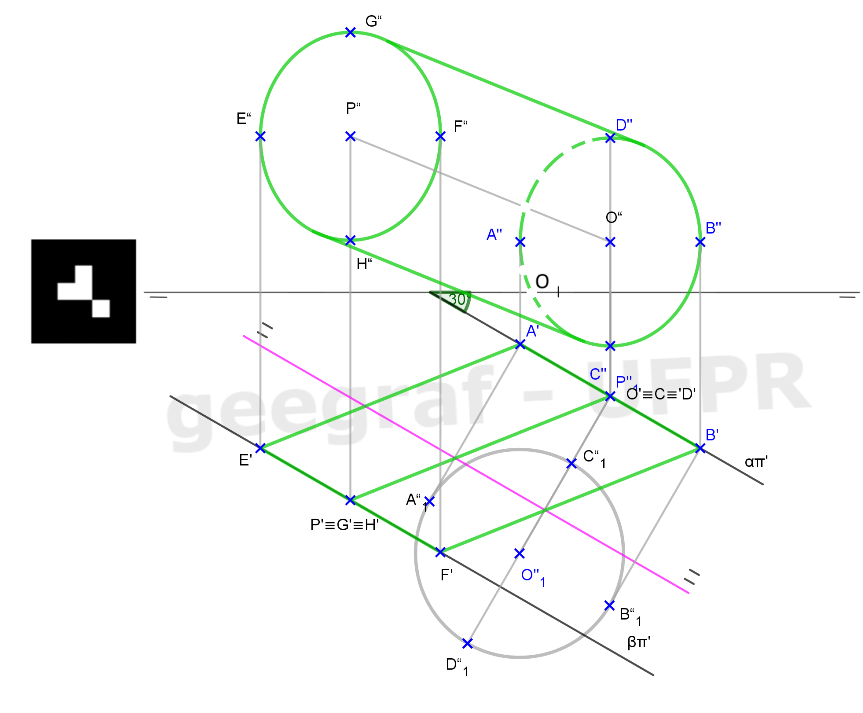
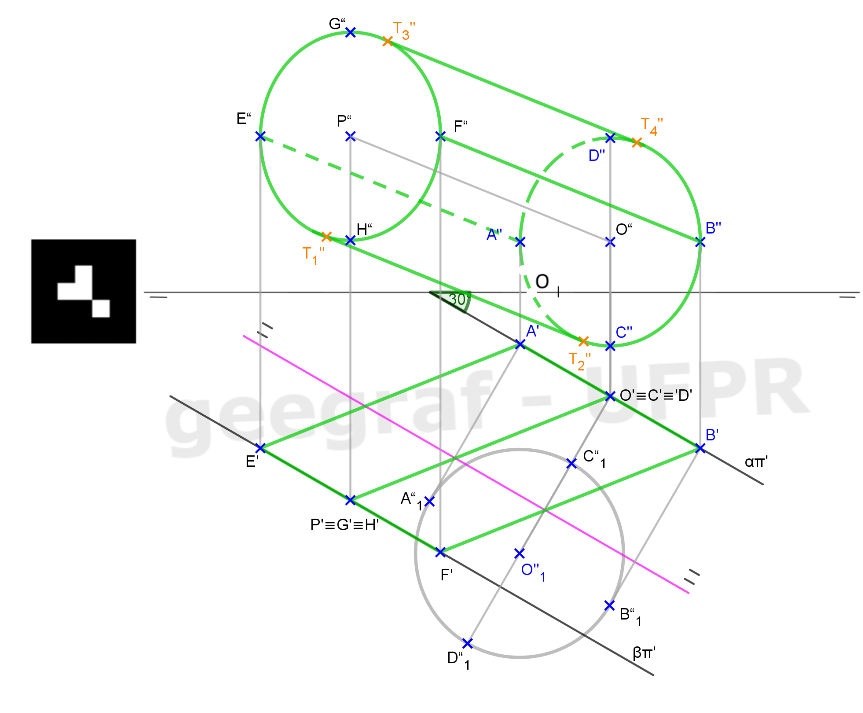
update

diff --git a/README.md b/README.md
@@ -6511,18 +6511,18 @@
 	<p class="topop"><a href="#planos3" class="topo">voltar ao topo</a></p>
 	<img src="planosTV/Apost_GD_2021_00087.png"/>
 	<div class="combo"><details class="sub"><summary>&#x1f4cf; &#x1f4d0; Solução</summary>
-	<p></p>
+	<p>Utilizamos a mudança de planos para construir uma base em VG do cilindro. A outra base pode ser construída por meio das geratrizes paralelas <b>A'E'</b> e <b>B'F'</b> na primeira projeção e <b>T<sub>1</sub>''T<sub>2</sub>''</b> e <b>T<sub>3</sub>''T<sub>4</sub>''</b> na segunda projeção.</p>
 	<img src="planosTV/76_00_01.png"/>
-	<figcaption></figcaption>
+	<figcaption>As projeções das bases em <b>&pi;''</b> são elipses, com os diâmetros <b>A''B''</b>, <b>C''D''</b>, <b>E''F''</b> e <b>G''H''</b>. Podemos construir as elipses à mão livre.</figcaption>
   </details>
   <a href="vr/a19.html" target="_blank" class="visu">Visualização em 3D</a></div>
 	<p class="topop"><a href="#planos3" class="topo">voltar ao topo</a></p>
 	<img src="planosTV/Apost_GD_2021_00088.png"/>
 	<div class="combo">
 	<details class="sub"><summary>&#x1f4cf; &#x1f4d0; Solução</summary>
-	<p></p>
+	<p>Neste exercício, podemos construir a seção plana elíptica determinando outras geratrizes do cone: basta escolher um ponto qualquer (por exemplo, <b>C''</b>) da circunferência e encontrar a primeira projeção deste ponto no traço <b>&alpha;&pi;'</b>.</p>
 	<img src="planosTV/77_01_01.png"/>
-	<figcaption></figcaption>
+	<figcaption>As interseções das geratrizes com o traço do plano de seção <b>&beta;&pi;'</b> determinam a primeira projeção da seção plana. Fazendo as linhas de chamada de cada interseção, temos a segunda projeção nas respectivas projeções das geratrizes do cone.</figcaption>
   </details>
 	<a href="vr/a20.html" target="_blank" class="visu">Visualização em 3D</a></div>
 	<p class="topop"><a href="#planos3" class="topo">voltar ao topo</a></p>
